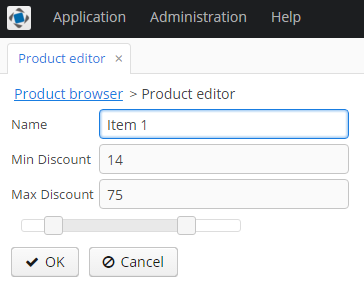
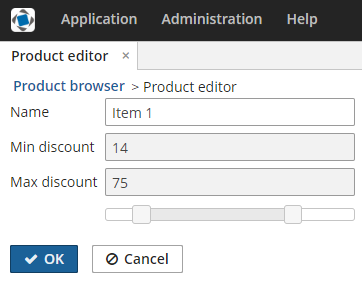
Document using a JavaScript library

diff --git a/content/manual/source/ui_component/js/slider-connector.js b/content/manual/source/ui_component/js/slider-connector.js
@@ -2,7 +2,7 @@ com_company_jscomponent_web_toolkit_ui_slider_SliderServerComponent = function()
     var connector = this;
     var element = connector.getElement();
     $(element).html("<div/>");
-    $(element).css("padding", "5px 10px");
+    $(element).css("padding", "5px 0px");
 
     var slider = $("div", element).slider({
         range: true,

diff --git a/content/manual/source/ui_component/js/ProductEdit.java b/content/manual/source/ui_component/js/ProductEdit.java
@@ -2,51 +2,42 @@ package com.company.jscomponent.web.product;
 
 import com.company.jscomponent.entity.Product;
 import com.company.jscomponent.web.toolkit.ui.slider.SliderServerComponent;
-import com.haulmont.cuba.gui.UiComponents;
-import com.haulmont.cuba.gui.components.AbstractEditor;
-import com.haulmont.cuba.gui.components.Component;
-import com.haulmont.cuba.gui.components.FieldGroup;
-import com.haulmont.cuba.gui.components.VBoxLayout;
-import com.haulmont.cuba.gui.data.Datasource;
-import com.haulmont.cuba.web.gui.components.WebComponentsHelper;
+import com.haulmont.cuba.gui.components.HBoxLayout;
+import com.haulmont.cuba.gui.screen.*;
 import com.vaadin.ui.Layout;
 
 import javax.inject.Inject;
 
-public class ProductEdit extends AbstractEditor<Product> {
+@UiController("jscomponent_Product.edit")
+@UiDescriptor("product-edit.xml")
+@EditedEntityContainer("productDc")
+@LoadDataBeforeShow
+public class ProductEdit extends StandardEditor<Product> {
 
     @Inject
-    private FieldGroup fieldGroup;
+    private HBoxLayout sliderBox;
 
-    @Inject
-    private UiComponents uiComponents;
-
-    @Inject
-    private Datasource<Product> productDs;
-
-    @Override
-    protected void initNewItem(Product item) {
-        super.initNewItem(item);
-        item.setMinDiscount(15.0);
-        item.setMaxDiscount(70.0);
+    @Subscribe
+    protected void onInitEntity(InitEntityEvent<Product> event) {
+        event.getEntity().setMinDiscount(15.0);
+        event.getEntity().setMaxDiscount(70.0);
     }
 
-    @Override
-    protected void postInit() {
-        super.postInit();
-
-        Component box = uiComponents.create(VBoxLayout.NAME);
-        Layout vBox = (Layout) WebComponentsHelper.unwrap(box);
+    @Subscribe
+    protected void onBeforeShow(BeforeShowEvent event) {
         SliderServerComponent slider = new SliderServerComponent();
-        slider.setValue(new double[]{getItem().getMinDiscount(), getItem().getMaxDiscount()});
+        slider.setValue(new double[]{
+                getEditedEntity().getMinDiscount(),
+                getEditedEntity().getMaxDiscount()
+        });
         slider.setMinValue(0);
         slider.setMaxValue(100);
-        slider.setWidth("240px");
+        slider.setWidth("250px");
         slider.setListener(newValue -> {
-            getItem().setMinDiscount(newValue[0]);
-            getItem().setMaxDiscount(newValue[1]);
+            getEditedEntity().setMinDiscount(newValue[0]);
+            getEditedEntity().setMaxDiscount(newValue[1]);
         });
-        vBox.addComponent(slider);
-        fieldGroup.getFieldNN("slider").setComponent(box);
+
+        sliderBox.unwrap(Layout.class).addComponent(slider);
     }
 }

diff --git a/content/manual/source/ui_component/js/SliderServerComponent.java b/content/manual/source/ui_component/js/SliderServerComponent.java
@@ -1,12 +1,12 @@
 package com.company.jscomponent.web.toolkit.ui.slider;
 
-import com.vaadin.annotations.StyleSheet;
-import com.vaadin.ui.AbstractJavaScriptComponent;
+import com.haulmont.cuba.web.widgets.WebJarResource;
 import com.vaadin.annotations.JavaScript;
+import com.vaadin.ui.AbstractJavaScriptComponent;
 import elemental.json.JsonArray;
 
-@JavaScript({"slider-connector.js", "jquery.js", "jquery-ui.js"})
-@StyleSheet({"jquery-ui.css"})
+@WebJarResource({"jquery:jquery.min.js", "jquery-ui:jquery-ui.min.js", "jquery-ui:jquery-ui.css"})
+@JavaScript({"slider-connector.js"})
 public class SliderServerComponent extends AbstractJavaScriptComponent {
 
     public interface ValueChangeListener {
